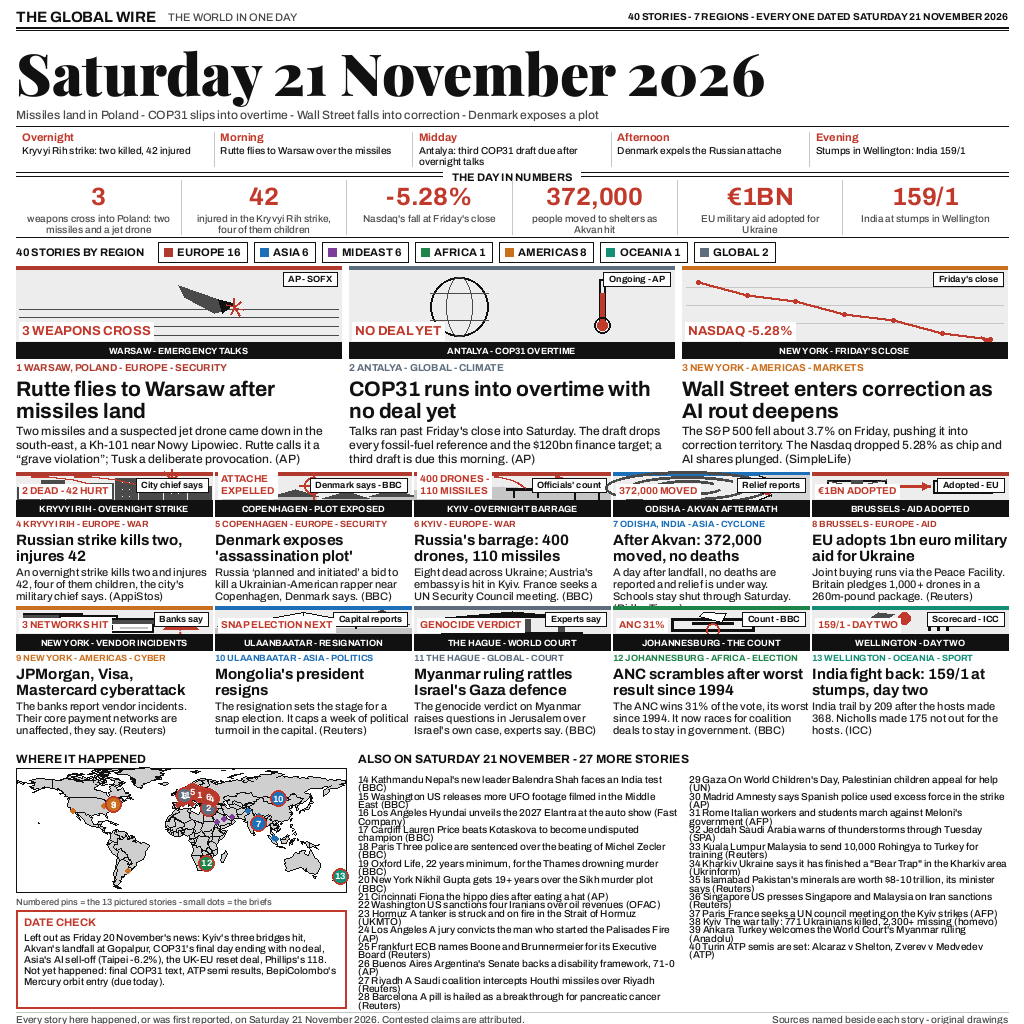
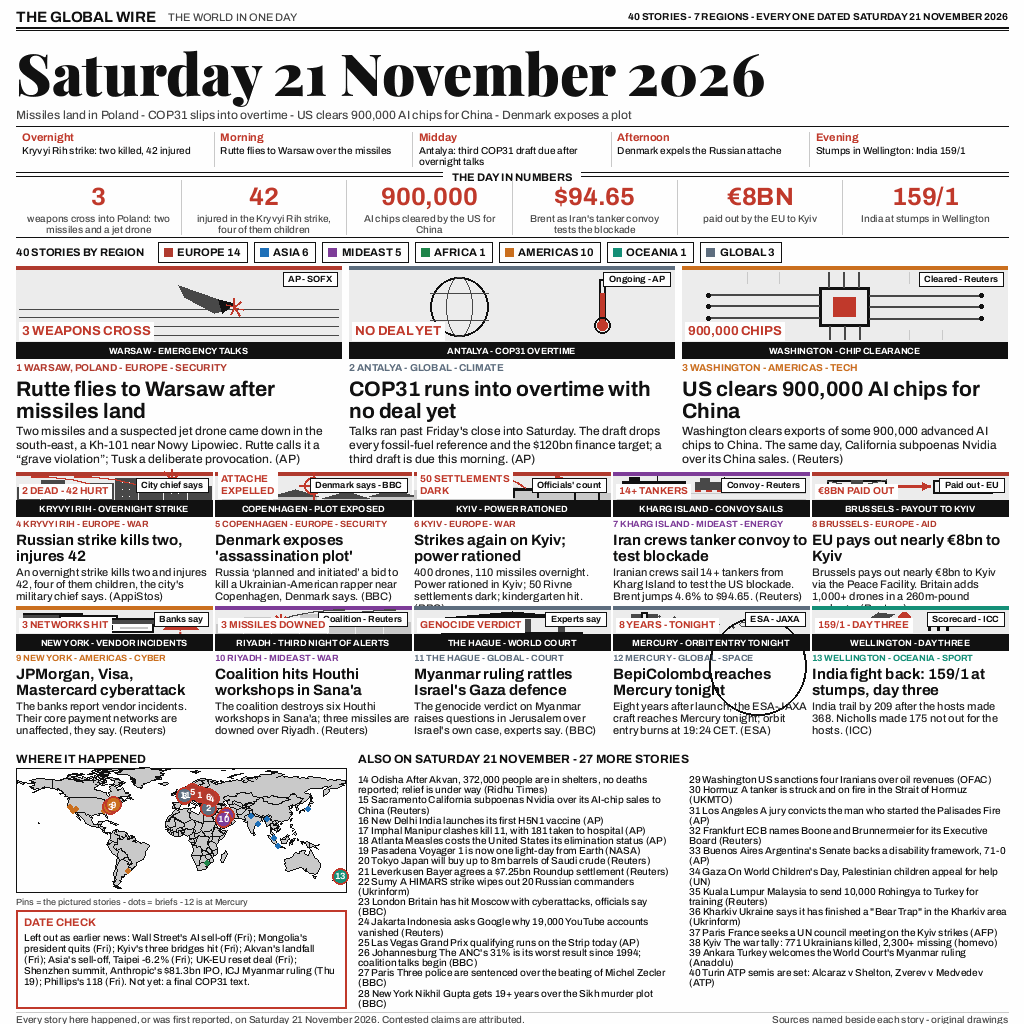
Add files via upload

diff --git a/draw.py b/draw.py
@@ -88,9 +88,9 @@ def vrule(d, x, y0, y1, fill=INK, wdt=1):
 NUMBERS = [
     ("3", "weapons cross into Poland: two missiles and a jet drone"),
     ("42", "injured in the Kryvyi Rih strike, four of them children"),
-    ("-5.28%", "Nasdaq's fall at Friday's close"),
-    ("372,000", "people moved to shelters as Akvan hit"),
-    ("€1BN", "EU military aid adopted for Ukraine"),
+    ("900,000", "AI chips cleared by the US for China"),
+    ("$94.65", "Brent as Iran's tanker convoy tests the blockade"),
+    ("€8BN", "paid out by the EU to Kyiv"),
     ("159/1", "India at stumps in Wellington"),
 ]
 
@@ -103,8 +103,8 @@ TIMELINE = [
 ]
 
 REGION_COUNTS = [
-    ("EUROPE", 16), ("ASIA", 6), ("MIDEAST", 6), ("AFRICA", 1),
-    ("AMERICAS", 8), ("OCEANIA", 1), ("GLOBAL", 2),
+    ("EUROPE", 14), ("ASIA", 6), ("MIDEAST", 5), ("AFRICA", 1),
+    ("AMERICAS", 10), ("OCEANIA", 1), ("GLOBAL", 3),
 ]
 
 # no, place, region, topic, headline, deck (verbatim + sources), source tag,
@@ -124,13 +124,13 @@ CARDS = [
      "is due this morning. (AP)",
      "Ongoing - AP", "NO DEAL YET", "ANTALYA - COP31 OVERTIME",
      30.7, 36.9),
-    (3, "NEW YORK", "AMERICAS", "MARKETS",
-     "Wall Street enters correction as AI rout deepens",
-     "The S&P 500 fell about 3.7% on Friday, pushing it into correction "
-     "territory. The Nasdaq dropped 5.28% as chip and AI shares plunged. "
-     "(SimpleLife)",
-     "Friday's close", "NASDAQ -5.28%", "NEW YORK - FRIDAY'S CLOSE",
-     -74.0, 40.7),
+    (3, "WASHINGTON", "AMERICAS", "TECH",
+     "US clears 900,000 AI chips for China",
+     "Washington clears exports of some 900,000 advanced AI chips to "
+     "China. The same day, California subpoenas Nvidia over its China "
+     "sales. (Reuters)",
+     "Cleared - Reuters", "900,000 CHIPS", "WASHINGTON - CHIP CLEARANCE",
+     -77.0, 38.9),
     (4, "KRYVYI RIH", "EUROPE", "WAR",
      "Russian strike kills two, injures 42",
      "An overnight strike kills two and injures 42, four of them "
@@ -144,23 +144,23 @@ CARDS = [
      "Denmark says - BBC", "ATTACHE\nEXPELLED", "COPENHAGEN - PLOT EXPOSED",
      12.6, 55.7),
     (6, "KYIV", "EUROPE", "WAR",
-     "Russia's barrage: 400 drones, 110 missiles",
-     "Eight dead across Ukraine; Austria's embassy is hit in Kyiv. "
-     "France seeks a UN Security Council meeting. (BBC)",
-     "Officials' count", "400 DRONES -\n110 MISSILES",
-     "KYIV - OVERNIGHT BARRAGE",
+     "Strikes again on Kyiv; power rationed",
+     "400 drones, 110 missiles overnight. Power rationed in Kyiv; "
+     "50 Rivne settlements dark; kindergarten hit. (BBC)",
+     "Officials' count", "50 SETTLEMENTS\nDARK",
+     "KYIV - POWER RATIONED",
      30.5, 50.4),
-    (7, "ODISHA, INDIA", "ASIA", "CYCLONE",
-     "After Akvan: 372,000 moved, no deaths",
-     "A day after landfall, no deaths are reported and relief is under "
-     "way. Schools stay shut through Saturday. (Ridhu Times)",
-     "Relief reports", "372,000 MOVED", "ODISHA - AKVAN AFTERMATH",
-     84.9, 19.3),
+    (7, "KHARG ISLAND", "MIDEAST", "ENERGY",
+     "Iran crews tanker convoy to test blockade",
+     "Iranian crews sail 14+ tankers from Kharg Island to test the "
+     "US blockade. Brent jumps 4.6% to $94.65. (Reuters)",
+     "Convoy - Reuters", "14+ TANKERS", "KHARG ISLAND - CONVOY SAILS",
+     50.3, 29.2),
     (8, "BRUSSELS", "EUROPE", "AID",
-     "EU adopts 1bn euro military aid for Ukraine",
-     "Joint buying runs via the Peace Facility. Britain pledges 1,000+ "
-     "drones in a 260m-pound package. (Reuters)",
-     "Adopted - EU", "€1BN ADOPTED", "BRUSSELS - AID ADOPTED",
+     "EU pays out nearly €8bn to Kyiv",
+     "Brussels pays out nearly €8bn to Kyiv via the Peace Facility. "
+     "Britain adds 1,000+ drones in a 260m-pound package. (Reuters)",
+     "Paid out - EU", "€8BN PAID OUT", "BRUSSELS - PAYOUT TO KYIV",
      4.3, 50.8),
     (9, "NEW YORK", "AMERICAS", "CYBER",
      "JPMorgan, Visa, Mastercard cyberattack",
@@ -168,80 +168,81 @@ CARDS = [
      "are unaffected, they say. (Reuters)",
      "Banks say", "3 NETWORKS HIT", "NEW YORK - VENDOR INCIDENTS",
      -73.9, 40.8),
-    (10, "ULAANBAATAR", "ASIA", "POLITICS",
-     "Mongolia's president resigns",
-     "The resignation sets the stage for a snap election. It caps a "
-     "week of political turmoil in the capital. (Reuters)",
-     "Capital reports", "SNAP ELECTION NEXT", "ULAANBAATAR - RESIGNATION",
-     106.9, 47.9),
+    (10, "RIYADH", "MIDEAST", "WAR",
+     "Coalition hits Houthi workshops in Sana'a",
+     "The coalition destroys six Houthi workshops in Sana'a; three "
+     "missiles are downed over Riyadh. (Reuters)",
+     "Coalition - Reuters", "3 MISSILES DOWNED", "RIYADH - THIRD NIGHT OF ALERTS",
+     46.7, 24.6),
     (11, "THE HAGUE", "GLOBAL", "COURT",
      "Myanmar ruling rattles Israel's Gaza defence",
      "The genocide verdict on Myanmar raises questions in Jerusalem "
      "over Israel's own case, experts say. (BBC)",
      "Experts say", "GENOCIDE VERDICT", "THE HAGUE - WORLD COURT",
      4.3, 52.1),
-    (12, "JOHANNESBURG", "AFRICA", "ELECTION",
-     "ANC scrambles after worst result since 1994",
-     "The ANC wins 31% of the vote, its worst since 1994. It now races "
-     "for coalition deals to stay in government. (BBC)",
-     "Count - BBC", "ANC 31%", "JOHANNESBURG - THE COUNT",
-     28.0, -26.2),
+    (12, "MERCURY", "GLOBAL", "SPACE",
+     "BepiColombo reaches Mercury tonight",
+     "Eight years after launch, the ESA-JAXA craft reaches Mercury "
+     "tonight; orbit entry burns at 19:24 CET. (ESA)",
+     "ESA - JAXA", "8 YEARS - TONIGHT", "MERCURY - ORBIT ENTRY TONIGHT",
+     None, None),
     (13, "WELLINGTON", "OCEANIA", "SPORT",
-     "India fight back: 159/1 at stumps, day two",
+     "India fight back: 159/1 at stumps, day three",
      "India trail by 209 after the hosts made 368. Nicholls made 175 "
      "not out for the hosts. (ICC)",
-     "Scorecard - ICC", "159/1 - DAY TWO", "WELLINGTON - DAY TWO",
+     "Scorecard - ICC", "159/1 - DAY THREE", "WELLINGTON - DAY THREE",
      174.8, -41.3),
 ]
 
 # no, text (verbatim from POOL21, source in parens), region, pin lon, pin lat
 BRIEFS = [
-    (14, "Kathmandu Nepal's new leader Balendra Shah faces an India "
-     "test (BBC)", "ASIA", 85.3, 27.7),
-    (15, "Washington US releases more UFO footage filmed in the Middle "
-     "East (BBC)", "AMERICAS", -77.0, 38.9),
-    (16, "Los Angeles Hyundai unveils the 2027 Elantra at the auto "
-     "show (Fast Company)", "AMERICAS", -118.2, 34.1),
-    (17, "Cardiff Lauren Price beats Kotaskova to become undisputed "
-     "champion (BBC)", "EUROPE", -3.2, 51.5),
-    (18, "Paris Three police are sentenced over the beating of Michel "
+    (14, "Odisha After Akvan, 372,000 people are in shelters, no "
+     "deaths reported; relief is under way (Ridhu Times)", "ASIA",
+     84.9, 19.3),
+    (15, "Sacramento California subpoenas Nvidia over its AI-chip "
+     "sales to China (Reuters)", "AMERICAS", -121.5, 38.6),
+    (16, "New Delhi India launches its first H5N1 vaccine (AP)",
+     "ASIA", 77.2, 28.6),
+    (17, "Imphal Manipur clashes kill 11, with 181 taken to hospital "
+     "(AP)", "ASIA", 93.9, 24.8),
+    (18, "Atlanta Measles costs the United States its elimination "
+     "status (AP)", "AMERICAS", -84.4, 33.7),
+    (19, "Pasadena Voyager 1 is now one light-day from Earth (NASA)",
+     "AMERICAS", -118.1, 34.1),
+    (20, "Tokyo Japan will buy up to 8m barrels of Saudi crude "
+     "(Reuters)", "ASIA", 139.7, 35.7),
+    (21, "Leverkusen Bayer agrees a $7.25bn Roundup settlement "
+     "(Reuters)", "EUROPE", 7.0, 51.0),
+    (22, "Sumy A HIMARS strike wipes out 20 Russian commanders "
+     "(Ukrinform)", "EUROPE", 34.8, 50.9),
+    (23, "London Britain has hit Moscow with cyberattacks, officials "
+     "say (BBC)", "EUROPE", -0.1, 51.5),
+    (24, "Jakarta Indonesia asks Google why 19,000 YouTube accounts "
+     "vanished (Reuters)", "ASIA", 106.8, -6.2),
+    (25, "Las Vegas Grand Prix qualifying runs on the Strip today "
+     "(AP)", "AMERICAS", -115.1, 36.1),
+    (26, "Johannesburg The ANC's 31% is its worst result since 1994; "
+     "coalition talks begin (BBC)", "AFRICA", 28.0, -26.2),
+    (27, "Paris Three police are sentenced over the beating of Michel "
      "Zecler (BBC)", "EUROPE", 2.4, 48.9),
-    (19, "Oxford Life, 22 years minimum, for the Thames drowning "
-     "murder (BBC)", "EUROPE", -1.3, 51.8),
-    (20, "New York Nikhil Gupta gets 19+ years over the Sikh murder "
+    (28, "New York Nikhil Gupta gets 19+ years over the Sikh murder "
      "plot (BBC)", "AMERICAS", -74.0, 40.7),
-    (21, "Cincinnati Fiona the hippo dies after eating a hat (AP)",
-     "AMERICAS", -84.5, 39.1),
-    (22, "Washington US sanctions four Iranians over oil revenues "
+    (29, "Washington US sanctions four Iranians over oil revenues "
      "(OFAC)", "AMERICAS", -77.1, 38.8),
-    (23, "Hormuz A tanker is struck and on fire in the Strait of "
+    (30, "Hormuz A tanker is struck and on fire in the Strait of "
      "Hormuz (UKMTO)", "MIDEAST", 56.3, 26.6),
-    (24, "Los Angeles A jury convicts the man who started the "
+    (31, "Los Angeles A jury convicts the man who started the "
      "Palisades Fire (AP)", "AMERICAS", -118.3, 34.0),
-    (25, "Frankfurt ECB names Boone and Brunnermeier for its Executive "
+    (32, "Frankfurt ECB names Boone and Brunnermeier for its Executive "
      "Board (Reuters)", "EUROPE", 8.7, 50.1),
-    (26, "Buenos Aires Argentina's Senate backs a disability "
+    (33, "Buenos Aires Argentina's Senate backs a disability "
      "framework, 71-0 (AP)", "AMERICAS", -58.4, -34.6),
-    (27, "Riyadh A Saudi coalition intercepts Houthi missiles over "
-     "Riyadh (Reuters)", "MIDEAST", 46.7, 24.6),
-    (28, "Barcelona A pill is hailed as a breakthrough for pancreatic "
-     "cancer (Reuters)", "EUROPE", 2.2, 41.4),
-    (29, "Gaza On World Children's Day, Palestinian children appeal "
+    (34, "Gaza On World Children's Day, Palestinian children appeal "
      "for help (UN)", "MIDEAST", 34.3, 31.5),
-    (30, "Madrid Amnesty says Spanish police used excess force in the "
-     "strike (AP)", "EUROPE", -3.7, 40.4),
-    (31, "Rome Italian workers and students march against Meloni's "
-     "government (AFP)", "EUROPE", 12.5, 41.9),
-    (32, "Jeddah Saudi Arabia warns of thunderstorms through Tuesday "
-     "(SPA)", "MIDEAST", 39.2, 21.5),
-    (33, "Kuala Lumpur Malaysia to send 10,000 Rohingya to Turkey for "
+    (35, "Kuala Lumpur Malaysia to send 10,000 Rohingya to Turkey for "
      "training (Reuters)", "ASIA", 101.7, 3.1),
-    (34, 'Kharkiv Ukraine says it has finished a "Bear Trap" in the '
+    (36, 'Kharkiv Ukraine says it has finished a "Bear Trap" in the '
      "Kharkiv area (Ukrinform)", "EUROPE", 36.2, 49.9),
-    (35, "Islamabad Pakistan's minerals are worth $8-10 trillion, its "
-     "minister says (Reuters)", "ASIA", 73.1, 33.7),
-    (36, "Singapore US presses Singapore and Malaysia on Iran "
-     "sanctions (Reuters)", "ASIA", 103.8, 1.35),
     (37, "Paris France seeks a UN council meeting on the Kyiv strikes "
      "(AFP)", "EUROPE", 2.3, 48.8),
     (38, "Kyiv The war tally: 771 Ukrainians killed, 2,300+ missing "
@@ -253,11 +254,11 @@ BRIEFS = [
 ]
 
 DATECHECK = (
-    "Left out as Friday 20 November's news: Kyiv's three bridges hit, "
-    "Akvan's landfall at Gopalpur, COP31's final day ending with no deal, "
-    "Asia's AI sell-off (Taipei -6.2%), the UK-EU reset deal, Phillips's 118. "
-    "Not yet happened: final COP31 text, ATP semi results, BepiColombo's "
-    "Mercury orbit entry (due today)."
+    "Left out as earlier news: Wall Street's AI sell-off (Fri); Mongolia's "
+    "president quits (Fri); Kyiv's three bridges hit (Fri); Akvan's landfall "
+    "(Fri); Asia's sell-off, Taipei -6.2% (Fri); UK-EU reset deal (Fri); "
+    "Shenzhen summit, Anthropic's $81.3bn IPO, ICJ Myanmar ruling (Thu 19); "
+    "Phillips's 118 (Fri). Not yet: a final COP31 text."
 )
 
 FOOTER_L = ("Every story here happened, or was first reported, on Saturday "
@@ -557,10 +558,97 @@ def scene_mongolia(d, x, y, w, h):  # Mongolia: steppe, ger, flag
                 fill=RED)
 
 
-SCENES = {1: scene6, 2: scene5, 3: scene3, 4: scene_city,
-          5: scene_reticle, 6: scene1, 7: scene2, 8: scene4,
-          9: scene_cyber, 10: scene_mongolia, 11: scene10, 12: scene12,
-          13: scene13}
+def scene_chip(d, x, y, w, h):  # AI chips: microchip, red core (lead strip)
+    cx, cy = x + w * 0.5, y + h * 0.52
+    s = h * 0.34
+    d.rectangle([cx - s, cy - s * 0.8, cx + s, cy + s * 0.8], outline=INK,
+                width=3)
+    d.rectangle([cx - s * 0.45, cy - s * 0.38, cx + s * 0.45,
+                 cy + s * 0.38], fill=RED)
+    for i in (-0.6, 0.0, 0.6):
+        px = cx + s * i
+        d.line([(px, cy - s * 0.8), (px, y + 3)], fill=MGRAY, width=2)
+        d.line([(px, cy + s * 0.8), (px, y + h - 3)], fill=MGRAY, width=2)
+        py = cy + s * i * 0.8
+        d.line([(cx - s, py), (x + w * 0.08, py)], fill=MGRAY, width=2)
+        d.line([(cx + s, py), (x + w * 0.92, py)], fill=MGRAY, width=2)
+        d.ellipse([x + w * 0.08 - 2, py - 2, x + w * 0.08 + 2, py + 2],
+                  fill=INK)
+        d.ellipse([x + w * 0.92 - 2, py - 2, x + w * 0.92 + 2, py + 2],
+                  fill=INK)
+    for fx in (0.2, 0.3, 0.7, 0.8):
+        d.line([(x + w * fx, y + 3), (x + w * fx, y + h * 0.2)], fill=GRAY2,
+               width=1)
+        d.line([(x + w * fx, y + h * 0.84), (x + w * fx, y + h - 3)],
+               fill=GRAY2, width=1)
+
+
+def scene_tankers(d, x, y, w, h):  # Kharg: tanker convoy, wide-short strip
+    horizon = y + h * 0.58
+    for i in range(2):
+        wy = horizon + 4 + i * 6
+        d.line([(x + 4, wy), (x + w - 4, wy)], fill=GRAY2, width=1)
+    for i, (fx, fw) in enumerate(((0.05, 0.32), (0.42, 0.27), (0.73, 0.22))):
+        bx, bw = x + w * fx, w * fw
+        hull = h * (0.34 - 0.05 * i)
+        d.rectangle([bx, horizon - hull, bx + bw, horizon],
+                    fill=INK if i == 0 else MGRAY)
+        d.rectangle([bx + bw * 0.1, horizon - hull - 4, bx + bw * 0.26,
+                     horizon - hull], fill=INK if i == 0 else MGRAY)
+        d.line([(bx + bw * 0.55, horizon - hull), (bx + bw * 0.55,
+                 horizon - hull - 5)], fill=INK, width=1)
+    for dx in range(0, int(w * 0.92), 11):
+        d.line([(x + 5 + dx, horizon + 1), (x + 10 + dx, horizon + 1)],
+               fill=RED, width=2)
+
+
+def scene_intercept(d, x, y, w, h):  # Riyadh: arcs downed over a skyline
+    base = y + h
+    heights = (0.4, 0.66, 0.5, 0.8, 0.58, 0.72, 0.46)
+    bw = w / len(heights)
+    for i, fr in enumerate(heights):
+        bx = x + i * bw
+        d.rectangle([bx + 1, base - h * fr, bx + bw - 1, base], fill=GRAY2)
+    for sx, ex in ((0.66, 0.34), (0.92, 0.58)):
+        ox, oy = x + w * sx, y + 1
+        exx, eyy = x + w * ex, y + h * 0.44
+        px, py = ox, oy
+        for t in range(1, 7):
+            tt = t / 6.0
+            nx = ox + (exx - ox) * tt
+            ny = oy + (eyy - oy) * tt * tt
+            d.line([(px, py), (nx, ny)], fill=MGRAY, width=2)
+            px, py = nx, ny
+        for dx, dy in ((0, -6), (5, -4), (6, 0), (5, 4), (0, 6), (-5, 4),
+                       (-6, 0), (-5, -4)):
+            d.line([(exx, eyy), (exx + dx, eyy + dy)], fill=RED, width=2)
+        d.ellipse([exx - 2, eyy - 2, exx + 2, eyy + 2], fill=RED)
+
+
+def scene_mercury(d, x, y, w, h):  # BepiColombo: planet arc, orbiter, burn
+    cx, cy, r = x + w * 0.74, y + h * 2.3, h * 1.95
+    d.ellipse([cx - r, cy - r, cx + r, cy + r], outline=INK, width=2)
+    gx, gy = cx - r * 0.3, cy - r * 0.86
+    d.ellipse([gx - 4, gy - 2, gx + 4, gy + 2], outline=MGRAY, width=1)
+    gx2, gy2 = cx + r * 0.25, cy - r * 0.93
+    d.ellipse([gx2 - 3, gy2 - 2, gx2 + 3, gy2 + 2], outline=MGRAY, width=1)
+    ox, oy = x + w * 0.16, y + h * 0.3
+    d.rectangle([ox - 13, oy - 2, ox - 4, oy + 2], fill=MGRAY)
+    d.rectangle([ox + 4, oy - 2, ox + 13, oy + 2], fill=MGRAY)
+    d.rectangle([ox - 3, oy - 4, ox + 3, oy + 4], outline=INK, width=2)
+    d.polygon([(ox + 1, oy + 4), (ox - 2, oy + 11), (ox + 5, oy + 10)],
+              fill=RED)
+    for t in range(1, 7):
+        tt = t / 6.0
+        px = ox + (cx - r * 0.5 - ox) * tt
+        py = oy + (cy - r * 0.8 - oy) * tt * tt
+        d.ellipse([px - 1, py - 1, px + 1, py + 1], fill=MGRAY)
+
+
+SCENES = {1: scene6, 2: scene5, 3: scene_chip, 4: scene_city,
+          5: scene_reticle, 6: scene1, 7: scene_tankers, 8: scene4,
+          9: scene_cyber, 10: scene_intercept, 11: scene10,
+          12: scene_mercury, 13: scene13}
 
 
 def draw_strip(d, x, y, w, h, card, lead):
@@ -628,8 +716,8 @@ def draw_header(d):
     # masthead (ink of PF(58) drawn at y=33 ends at y=107; deckline at 108)
     T(d, M, 33, "Saturday 21 November 2026", PF(58))
     T(d, M, 108,
-      "Missiles land in Poland - COP31 slips into overtime - Wall Street "
-      "falls into correction - Denmark exposes a plot", AM(12), fill=MGRAY)
+      "Missiles land in Poland - COP31 slips into overtime - US clears "
+      "900,000 AI chips for China - Denmark exposes a plot", AM(12), fill=MGRAY)
     rule(d, M, W - M, 126)
     # UTC timeline: five divided slots
     sw = CW / 5.0
@@ -707,15 +795,19 @@ def draw_map(d):
         px, py = proj(lon, lat)
         d.ellipse([px - 2.5, py - 2.5, px + 2.5, py + 2.5], fill=REG[region])
     for card in CARDS:
+        if card[9] is None:
+            continue
         px, py = proj(card[9], card[10])
         d.ellipse([px - 8, py - 8, px + 8, py + 8], fill=REG[card[2]],
                   outline=RED, width=2)
     for card in CARDS:
+        if card[9] is None:
+            continue
         px, py = proj(card[9], card[10])
         s = str(card[0])
         T(d, px - tw(d, s, AB(9)) / 2, py - 5, s, AB(9), fill=WHITE)
     T(d, M, 897,
-      "Numbered pins = the 13 pictured stories - small dots = the briefs",
+      "Pins = the pictured stories - dots = briefs - 12 is at Mercury",
       AM(9), fill=MGRAY)
 
 # ------------------------------------------------------------- bottom -----
@@ -760,8 +852,13 @@ def compose():
     draw_datecheck(d)
     draw_footer(d)
     out = os.path.join(BASE, "entry.png")
-    img.save(out)
+    q = img.quantize(colors=256, method=Image.FASTOCTREE)
+    q.save(out, optimize=True)
     print("saved", out, img.size, os.path.getsize(out), "bytes")
+    prev = img.resize((300, 300), Image.LANCZOS)
+    pout = os.path.join(BASE, "entry-300.png")
+    prev.save(pout, optimize=True)
+    print("saved", pout, prev.size, os.path.getsize(pout), "bytes")
 
 
 if __name__ == "__main__":
